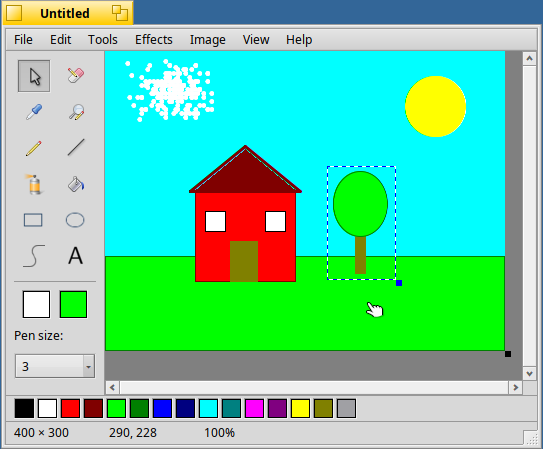
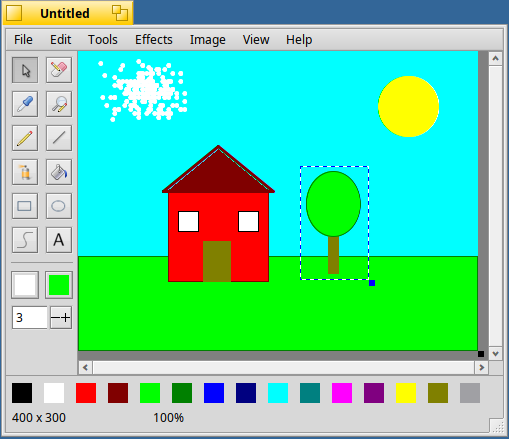
Match the Qt version's tool box, palette and status bar sizes
Tool buttons are 28-pixel bevelled buttons with 16-pixel icons in two
columns 6 pixels apart, followed by the two colour boxes and a compact
pen size field with a minus/plus stepper instead of a labelled menu.
The palette uses flat 20-pixel squares 12 pixels apart, and the status
bar uses the original's "W x H" and "x,y" formats. The README
screenshots show the new layout.

diff --git a/src/ToolBox.cpp b/src/ToolBox.cpp
@@ -10,15 +10,15 @@
 #include <Button.h>
 #include <Catalog.h>
 #include <LayoutBuilder.h>
-#include <MenuField.h>
-#include <MenuItem.h>
-#include <PopUpMenu.h>
+#include <ControlLook.h>
 #include <SeparatorView.h>
 #include <SpaceLayoutItem.h>
-#include <StringView.h>
 #include <TranslationUtils.h>
 #include <Window.h>
 
+#include <algorithm>
+
+#include "NumberControl.h"
 #include "Settings.h"
 
 
@@ -35,7 +35,7 @@ ColorSwatch::ColorSwatch(kind type, rgb_color color, float size)
 	fKind(type),
 	fColor(color)
 {
-	SetExplicitSize(BSize(size, size));
+	SetExplicitSize(BSize(size - 1, size - 1));
 	SetViewColor(B_TRANSPARENT_COLOR);
 	switch (type) {
 		case SWATCH_PRIMARY:
@@ -68,17 +68,30 @@ void
 ColorSwatch::Draw(BRect updateRect)
 {
 	BRect bounds = Bounds();
+	if (fKind == SWATCH_PALETTE) {
+		// A plain square, as in the original's palette.
+		SetHighColor(fColor);
+		FillRect(bounds);
+		return;
+	}
+
+	// A raised box with the colour inset, like the original's colour
+	// buttons.
 	rgb_color base = ui_color(B_PANEL_BACKGROUND_COLOR);
-	SetHighColor(tint_color(base, B_DARKEN_2_TINT));
-	StrokeLine(bounds.LeftBottom(), bounds.LeftTop());
-	StrokeLine(bounds.RightTop());
-	SetHighColor(tint_color(base, B_LIGHTEN_2_TINT));
-	StrokeLine(bounds.RightBottom());
-	StrokeLine(bounds.LeftBottom());
-	bounds.InsetBy(1, 1);
-	SetHighColor(0, 0, 0);
+	SetHighColor(base);
+	FillRect(bounds);
+	SetHighColor(tint_color(base, B_DARKEN_3_TINT));
 	StrokeRect(bounds);
 	bounds.InsetBy(1, 1);
+	SetHighColor(tint_color(base, B_LIGHTEN_2_TINT));
+	StrokeLine(bounds.LeftBottom(), bounds.LeftTop());
+	StrokeLine(bounds.RightTop());
+	SetHighColor(tint_color(base, B_DARKEN_1_TINT));
+	StrokeLine(bounds.RightBottom());
+	StrokeLine(bounds.LeftBottom());
+
+	float inset = fKind == SWATCH_DISPLAY ? 2 : 4;
+	bounds = Bounds().InsetByCopy(inset, inset);
 	SetHighColor(fColor);
 	FillRect(bounds);
 }
@@ -172,8 +185,81 @@ static const char* kToolIcons[TOOL_COUNT] = {
 	"tool-text"
 };
 
-static const int32 kPenSizes[] = {
-	1, 2, 3, 4, 5, 6, 8, 10, 12, 16, 20, 24, 32, 48
+enum {
+	MSG_PEN_FIELD	= 'pnfd',
+	MSG_PEN_STEP	= 'pnst'	// "delta": int32
+};
+
+static const int32 kMaxPenSize = 50;
+static const float kToolButtonSize = 28;
+
+
+// One button with a minus on its left half and a plus on its right, like
+// the original's spin box.
+class StepperButton : public BView {
+public:
+	StepperButton(BMessage* message)
+		:
+		BView("stepper", B_WILL_DRAW),
+		fMessage(message),
+		fPressedHalf(0)
+	{
+		SetExplicitSize(BSize(23, B_SIZE_UNSET));
+		SetViewColor(B_TRANSPARENT_COLOR);
+	}
+
+	~StepperButton()
+	{
+		delete fMessage;
+	}
+
+	void SetTarget(BHandler* target)
+	{
+		fTarget = BMessenger(target);
+	}
+
+	virtual void Draw(BRect updateRect)
+	{
+		BRect bounds = Bounds();
+		rgb_color base = ui_color(B_CONTROL_BACKGROUND_COLOR);
+		rgb_color background = ui_color(B_PANEL_BACKGROUND_COLOR);
+		be_control_look->DrawButtonFrame(this, bounds, updateRect, base,
+			background, fPressedHalf != 0 ? BControlLook::B_ACTIVATED : 0);
+		be_control_look->DrawButtonBackground(this, bounds, updateRect, base,
+			fPressedHalf != 0 ? BControlLook::B_ACTIVATED : 0);
+
+		SetHighColor(ui_color(B_CONTROL_TEXT_COLOR));
+		SetPenSize(1);
+		float middleY = floorf((bounds.top + bounds.bottom) / 2);
+		// A 9-pixel minus and plus with a pixel between them.
+		float arm = 4;
+		float minusX = floorf((bounds.left + bounds.right) / 2) - 5;
+		float plusX = minusX + 10;
+		StrokeLine(BPoint(minusX - arm, middleY), BPoint(minusX + arm, middleY));
+		StrokeLine(BPoint(plusX - arm, middleY), BPoint(plusX + arm, middleY));
+		StrokeLine(BPoint(plusX, middleY - arm), BPoint(plusX, middleY + arm));
+	}
+
+	virtual void MouseDown(BPoint where)
+	{
+		fPressedHalf = where.x < Bounds().Width() / 2 ? -1 : 1;
+		Invalidate();
+		SetMouseEventMask(B_POINTER_EVENTS, B_LOCK_WINDOW_FOCUS);
+		BMessage message(*fMessage);
+		message.AddInt32("delta", fPressedHalf);
+		fTarget.SendMessage(&message);
+	}
+
+	virtual void MouseUp(BPoint where)
+	{
+		fPressedHalf = 0;
+		Invalidate();
+	}
+
+private:
+	BMessage*	fMessage;
+	BMessenger	fTarget;
+	int32		fPressedHalf;
 };
 
 
@@ -193,17 +279,21 @@ ToolBox::ToolIconName(tool_id tool)
 
 ToolBox::ToolBox()
 	:
-	BGroupView("toolbox", B_VERTICAL, B_USE_SMALL_SPACING)
+	BGroupView("toolbox", B_VERTICAL, 0)
 {
-	GroupLayout()->SetInsets(B_USE_SMALL_SPACING);
+	// Sizes follow the Qt version on Haiku: 28-pixel buttons, 6 pixels
+	// apart, in two columns.
+	GroupLayout()->SetInsets(5, 5, 4, 5);
 
-	// The grid has to be in this view's layout before buttons go into it,
+	// The grid has to be in this view's layout before views go into it,
 	// or they never become child views.
 	BGridLayout* grid;
 	BLayoutBuilder::Group<>(this)
-		.AddGrid(2, 2)
+		.AddGrid(6, 6)
 			.GetLayout(&grid)
-			.End();
+			.End()
+		.AddGlue();
+
 	for (int32 i = 0; i < TOOL_COUNT; i++) {
 		BMessage* message = new BMessage(MSG_SET_TOOL);
 		message->AddInt32("tool", i);
@@ -215,39 +305,35 @@ ToolBox::ToolBox()
 		} else
 			button->SetLabel(ToolLabel((tool_id)i));
 		button->SetBehavior(BButton::B_TOGGLE_BEHAVIOR);
-		button->SetFlat(true);
+		button->SetExplicitSize(BSize(kToolButtonSize - 1,
+			kToolButtonSize - 1));
 		button->SetToolTip(ToolLabel((tool_id)i));
 		fButtons[i] = button;
 		grid->AddView(button, i % 2, i / 2);
 	}
 
+	int32 row = (TOOL_COUNT + 1) / 2;
+	BSeparatorView* separator = new BSeparatorView(B_HORIZONTAL);
+	separator->SetExplicitMinSize(BSize(B_SIZE_UNSET, 4));
+	grid->AddView(separator, 0, row++, 2, 1);
+
 	fPrimary = new ColorSwatch(ColorSwatch::SWATCH_PRIMARY,
-		gSettings->PrimaryColor(), 28);
+		gSettings->PrimaryColor(), kToolButtonSize);
 	fSecondary = new ColorSwatch(ColorSwatch::SWATCH_SECONDARY,
-		gSettings->SecondaryColor(), 28);
+		gSettings->SecondaryColor(), kToolButtonSize);
+	grid->AddView(fPrimary, 0, row);
+	grid->AddView(fSecondary, 1, row++);
 
-	fPenMenu = new BPopUpMenu("pen");
-	for (int32 size : kPenSizes) {
-		BMessage* message = new BMessage(MSG_PEN_SIZE);
-		message->AddInt32("size", size);
-		BString label;
-		label << size;
-		fPenMenu->AddItem(new BMenuItem(label.String(), message));
-	}
-	fPenField = new BMenuField("penSize", NULL, fPenMenu);
+	fPenField = new NumberControl("penSize", NULL, 1, kMaxPenSize,
+		gSettings->PenSize(), new BMessage(MSG_PEN_FIELD));
+	fPenField->SetExplicitSize(BSize(35, B_SIZE_UNSET));
 	fPenField->SetToolTip(B_TRANSLATE("Pen size"));
-
-	BLayoutBuilder::Group<>(this)
-		.Add(new BSeparatorView(B_HORIZONTAL))
-		.AddGroup(B_HORIZONTAL, B_USE_SMALL_SPACING)
-			.AddGlue()
-			.Add(fPrimary)
-			.Add(fSecondary)
-			.AddGlue()
-			.End()
-		.Add(new BStringView("penLabel", B_TRANSLATE("Pen size:")))
+	fPenStepper = new StepperButton(new BMessage(MSG_PEN_STEP));
+	fPenStepper->SetToolTip(B_TRANSLATE("Pen size"));
+	BGroupLayout* penRow = BLayoutBuilder::Group<>(B_HORIZONTAL, 2)
 		.Add(fPenField)
-		.AddGlue();
+		.Add(fPenStepper);
+	grid->AddItem(penRow, 0, row, 2, 1);
 }
 
 
@@ -257,8 +343,33 @@ ToolBox::AttachedToWindow()
 	BGroupView::AttachedToWindow();
 	for (int32 i = 0; i < TOOL_COUNT; i++)
 		fButtons[i]->SetTarget(be_app);
-	fPenMenu->SetTargetForItems(be_app);
+	fPenField->SetTarget(this);
+	fPenStepper->SetTarget(this);
 	Update();
+}
+
+
+void
+ToolBox::MessageReceived(BMessage* message)
+{
+	switch (message->what) {
+		case MSG_PEN_FIELD:
+		case MSG_PEN_STEP:
+		{
+			int32 size = message->what == MSG_PEN_FIELD
+				? fPenField->Number()
+				: gSettings->PenSize() + message->GetInt32("delta", 0);
+			size = std::min(std::max(size, (int32)1), kMaxPenSize);
+			if (size == gSettings->PenSize())
+				break;
+			BMessage setSize(MSG_PEN_SIZE);
+			setSize.AddInt32("size", size);
+			be_app->PostMessage(&setSize);
+			break;
+		}
+		default:
+			BGroupView::MessageReceived(message);
+	}
 }
 
 
@@ -272,13 +383,10 @@ ToolBox::Update()
 	fPrimary->SetColor(gSettings->PrimaryColor());
 	fSecondary->SetColor(gSettings->SecondaryColor());
 
-	BString label;
-	label << gSettings->PenSize();
-	BMenuItem* item = fPenMenu->FindItem(label.String());
-	if (item != NULL)
-		item->SetMarked(true);
-	else
-		fPenField->MenuItem()->SetLabel(label.String());
+	// Leave the field alone while it's being typed into.
+	int32 size = gSettings->PenSize();
+	if (fPenField->Number() != size && !fPenField->TextView()->IsFocus())
+		fPenField->SetNumber(size);
 }
 
 
@@ -300,9 +408,9 @@ static const rgb_color kPalette[] = {
 
 PaletteBar::PaletteBar()
 	:
-	BGroupView("palette", B_HORIZONTAL, 2)
+	BGroupView("palette", B_HORIZONTAL, 12)
 {
-	GroupLayout()->SetInsets(B_USE_SMALL_SPACING, 2, B_USE_SMALL_SPACING, 2);
+	GroupLayout()->SetInsets(6, 7, 6, 6);
 	for (const rgb_color& color : kPalette) {
 		GroupLayout()->AddView(new ColorSwatch(ColorSwatch::SWATCH_PALETTE,
 			color, 20));

diff --git a/src/PaintWindow.cpp b/src/PaintWindow.cpp
@@ -107,7 +107,6 @@ PaintWindow::PaintWindow(BRect frame, BBitmap* image, const entry_ref* ref)
 			.End()
 		.Add(new BSeparatorView(B_HORIZONTAL))
 		.Add(fPalette)
-		.Add(new BSeparatorView(B_HORIZONTAL))
 		.Add(_BuildStatusBar());
 
 	fCanvas->MakeFocus(true);
@@ -278,7 +277,7 @@ PaintWindow::MessageReceived(BMessage* message)
 			BPoint where;
 			BString position;
 			if (message->FindPoint("where", &where) == B_OK)
-				position.SetToFormat("%d, %d", (int)where.x, (int)where.y);
+				position.SetToFormat("%d,%d", (int)where.x, (int)where.y);
 			fPositionView->SetText(position.String());
 
 			rgb_color color;
@@ -462,13 +461,14 @@ PaintWindow::_BuildStatusBar()
 		make_color(0, 0, 0), 12);
 	fColorView = new BStringView("color", "");
 
-	float digits = be_plain_font->StringWidth("00000 × 00000");
-	fSizeView->SetExplicitMinSize(BSize(digits, B_SIZE_UNSET));
-	fPositionView->SetExplicitMinSize(BSize(digits, B_SIZE_UNSET));
+	fSizeView->SetExplicitMinSize(BSize(
+		be_plain_font->StringWidth("0000 x 0000"), B_SIZE_UNSET));
+	fPositionView->SetExplicitMinSize(BSize(
+		be_plain_font->StringWidth("0000,0000"), B_SIZE_UNSET));
 
-	BGroupView* statusBar = new BGroupView(B_HORIZONTAL);
+	BGroupView* statusBar = new BGroupView(B_HORIZONTAL, 6);
 	BLayoutBuilder::Group<>(statusBar)
-		.SetInsets(B_USE_SMALL_SPACING, 2, B_USE_SMALL_SPACING, 2)
+		.SetInsets(6, 0, 6, 5)
 		.Add(fSizeView)
 		.Add(fPositionView)
 		.Add(fZoomView)
@@ -639,7 +639,7 @@ void
 PaintWindow::_UpdateStatus()
 {
 	BString size;
-	size.SetToFormat("%" B_PRId32 " × %" B_PRId32, fCanvas->ImageWidth(),
+	size.SetToFormat("%" B_PRId32 " x %" B_PRId32, fCanvas->ImageWidth(),
 		fCanvas->ImageHeight());
 	fSizeView->SetText(size.String());
 

diff --git a/src/ToolBox.h b/src/ToolBox.h
@@ -17,8 +17,8 @@
 
 
 class BButton;
-class BMenuField;
-class BPopUpMenu;
+class NumberControl;
+class StepperButton;
 
 
 class ColorSwatch : public BView {
@@ -54,14 +54,15 @@ public:
 	static	const char*			ToolIconName(tool_id tool);
 
 	virtual	void				AttachedToWindow();
+	virtual	void				MessageReceived(BMessage* message);
 			void				Update();
 
 private:
 			BButton*			fButtons[TOOL_COUNT];
 			ColorSwatch*		fPrimary;
 			ColorSwatch*		fSecondary;
-			BPopUpMenu*			fPenMenu;
-			BMenuField*			fPenField;
+			NumberControl*		fPenField;
+			StepperButton*		fPenStepper;
 };
 
 
